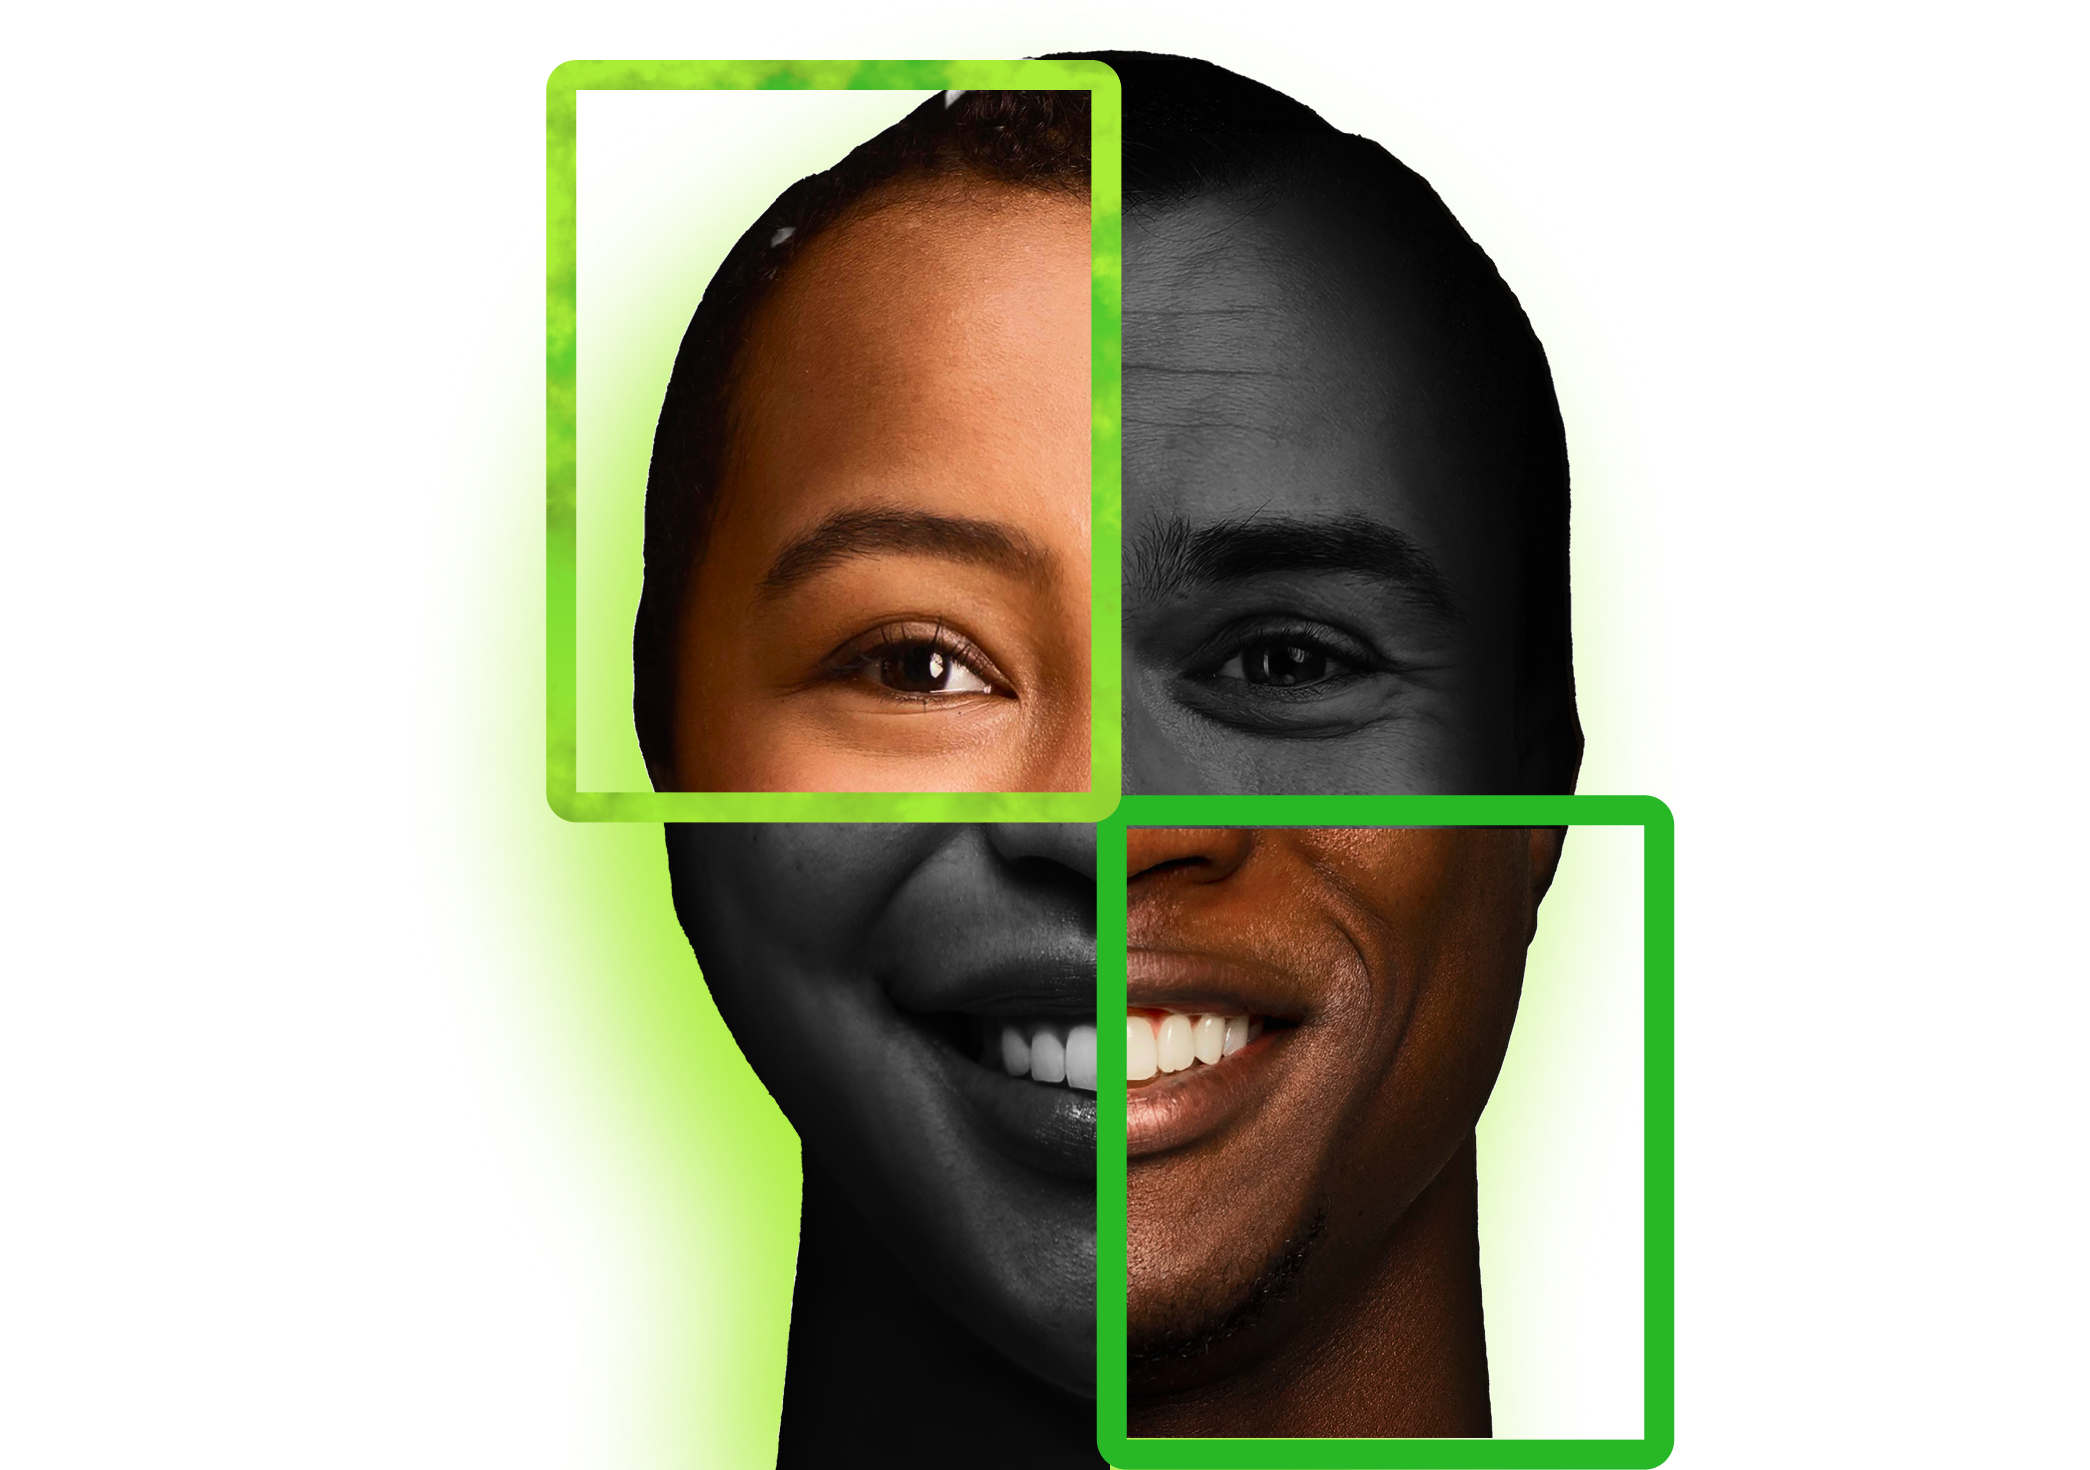
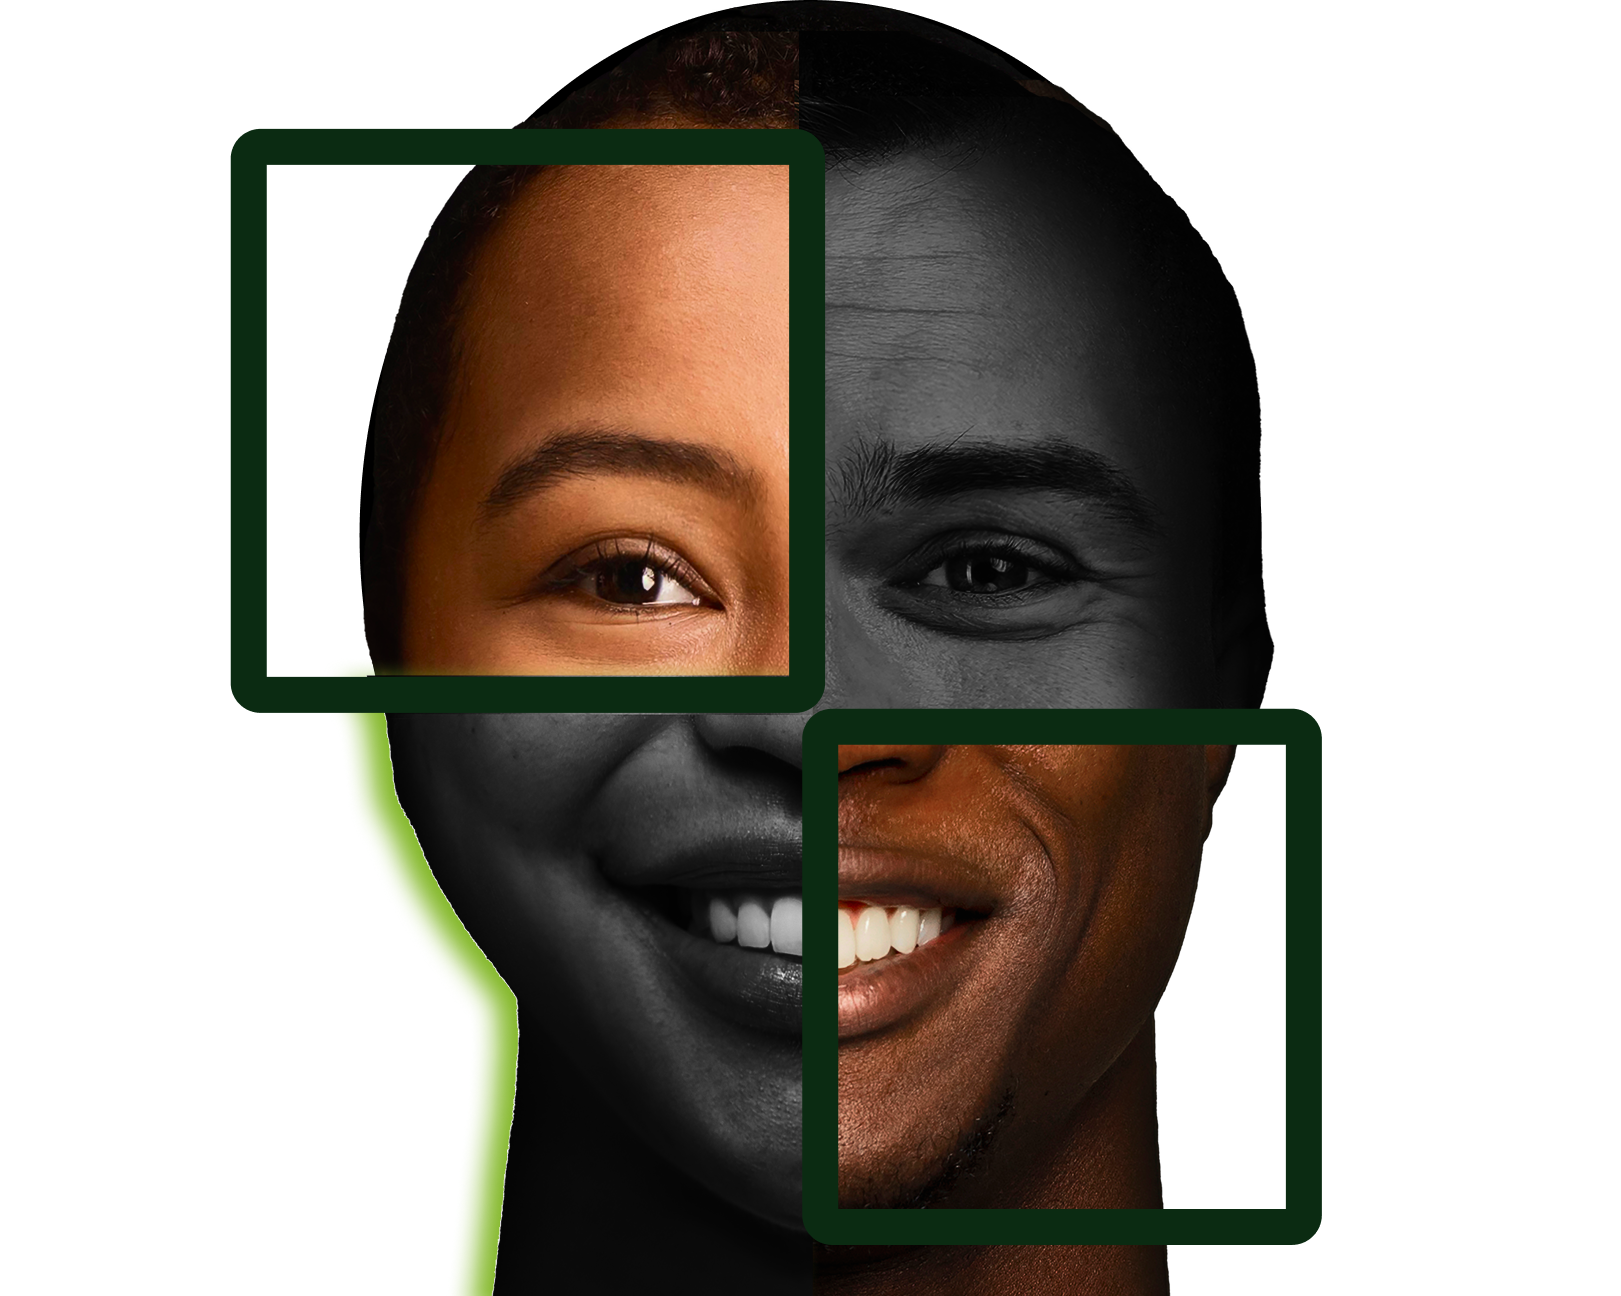
updated hero imagery

diff --git a/src/components/home/HomeHero.tsx b/src/components/home/HomeHero.tsx
@@ -14,7 +14,7 @@ const COMPANY_LOGOS = [
 
 export function HomeHero() {
   return (
-    <section id="hero" aria-labelledby="home-hero-heading" className="bg-white text-flux-void">
+    <section id="hero" aria-labelledby="home-hero-heading" className="bg-[#C9FF6B] text-flux-void">
       <div className="mx-auto max-w-[1400px] px-5 py-16 sm:px-8 lg:px-12 lg:py-24">
         <div className="grid gap-10 items-top lg:grid-cols-[minmax(0,0.6fr)_minmax(0,0.4fr)]">
           <motion.div
@@ -28,8 +28,8 @@ export function HomeHero() {
               variants={fadeInView}
               className="text-[clamp(3rem,5vw,5.25rem)] font-monument font-black leading-[0.92] tracking-tight text-flux-void"
             >
-              <span className="block"><span className="text-flux-accent">Discover<br/></span>your brand,</span>
-              <span className="block"><span>position </span> <br/> to win</span>
+              <span className="block text-[#0B2B12]">Got an idea? <br/>Let's make it make sense.</span>
+              {/* <span className="block"><span>position </span> <br/> to win</span> */}
               {/* <span className="block">
                 To <span className="heading-accent">Win</span>
               </span> */}
@@ -37,21 +37,26 @@ export function HomeHero() {
           </motion.div>
 
           <motion.div
-            className="flex flex-col items-start"
+            className="flex flex-col space-y-6 items-start"
             initial={{ opacity: 0, y: 24 }}
             animate={{ opacity: 1, y: 0 }}
             transition={{ duration: 0.7, delay: 0.2 }}
           >
+            <span className="text-sm font-bold w-full uppercase tracking-[0.24em] text-flux-editorial/70">Design | Video | Websites | Marketing</span>
+            
+            {/* <svg width="500" className="my-6" height="11" viewBox="0 0 636 11" fill="none" xmlns="http://www.w3.org/2000/svg">
+              <path d="M10.6658 5.33398C10.6658 2.38847 8.27802 0.000650883 5.33252 0.000650883C2.38702 0.000650883 -0.000793457 2.38847 -0.000793457 5.33398C-0.000793457 8.2795 2.38702 10.6673 5.33252 10.6673C8.27802 10.6673 10.6658 8.2795 10.6658 5.33398ZM710.344 5.33398V4.33398L5.33252 4.33398V5.33398V6.33398L710.344 6.33398V5.33398Z" fill="#0B2B12" />
+            </svg> */}
+
             <motion.p
               variants={fadeInView}
               className="max-w-xl text-base leading-relaxed text-flux-editorial/90 md:text-lg"
-            >
-              Marketing tools that help you communicate clearly & effectively with your audience without losing focus of your business.
+            >Whatever you're building, FluxFom helps turn the idea into something people can see, feel and remember.
             </motion.p>
 
             <div className="mt-8 flex flex-col gap-4 sm:flex-row sm:items-center sm:justify-end">
               <Link to="/start" className="btn-neon-solid px-9 py-4 text-base">
-                Get Started
+              Start a project →
               </Link>
               <Link to="/how-it-works" className="btn-neon-outline px-9 py-4 text-base">
                 Find Out More
@@ -64,21 +69,21 @@ export function HomeHero() {
           <div className="relative border-t border-flux-sand/50 overflow-hidden rounded-[2rem] border border-flux-sand bg-flux-sand/10 shadow-[0_40px_120px_-55px_rgba(5,16,5,0.18)]">
             <img
               src="/assets/images/hero-bg.png"
-              alt="Creative team collaborating on a laptop"
+              alt="fluxfom-hero-bg"
               fetchPriority="high"
               decoding="async"
-              className="h-[420px] w-full object-cover sm:h-[520px]"
+              className="h-[420px] w-full object-fit sm:h-[520px]"
             />
             <img
               src="/assets/images/hero-bg-face.png"
-              alt="Creative team collaborating on a laptop"
+              alt="fluxfom-hero-face"
               fetchPriority="high"
               decoding="async"
               className="pointer-events-none absolute left-1/2 top-1/2 h-[420px] w-auto max-w-none -translate-x-1/2 -translate-y-1/2 object-contain sm:h-[520px]"
             />
           </div>
 
-          <div className="my-4 space-y-4 border-t border-b border-flux-sand/50 py-4 text-sm text-flux-editorial/70">
+          {/* <div className="my-4 space-y-4 border-t border-b border-flux-sand/50 py-4 text-sm text-flux-editorial/70">
             <div className="flex flex-col gap-3 mb-6 items-start justify-between">
               <p className="font-semibold uppercase tracking-[0.24em] text-flux-editorial/85">
                 Companies we've worked with
@@ -106,7 +111,7 @@ export function HomeHero() {
                 );
               })}
             </div>
-          </div>
+          </div> */}
         </div>
       </div>
     </section>
